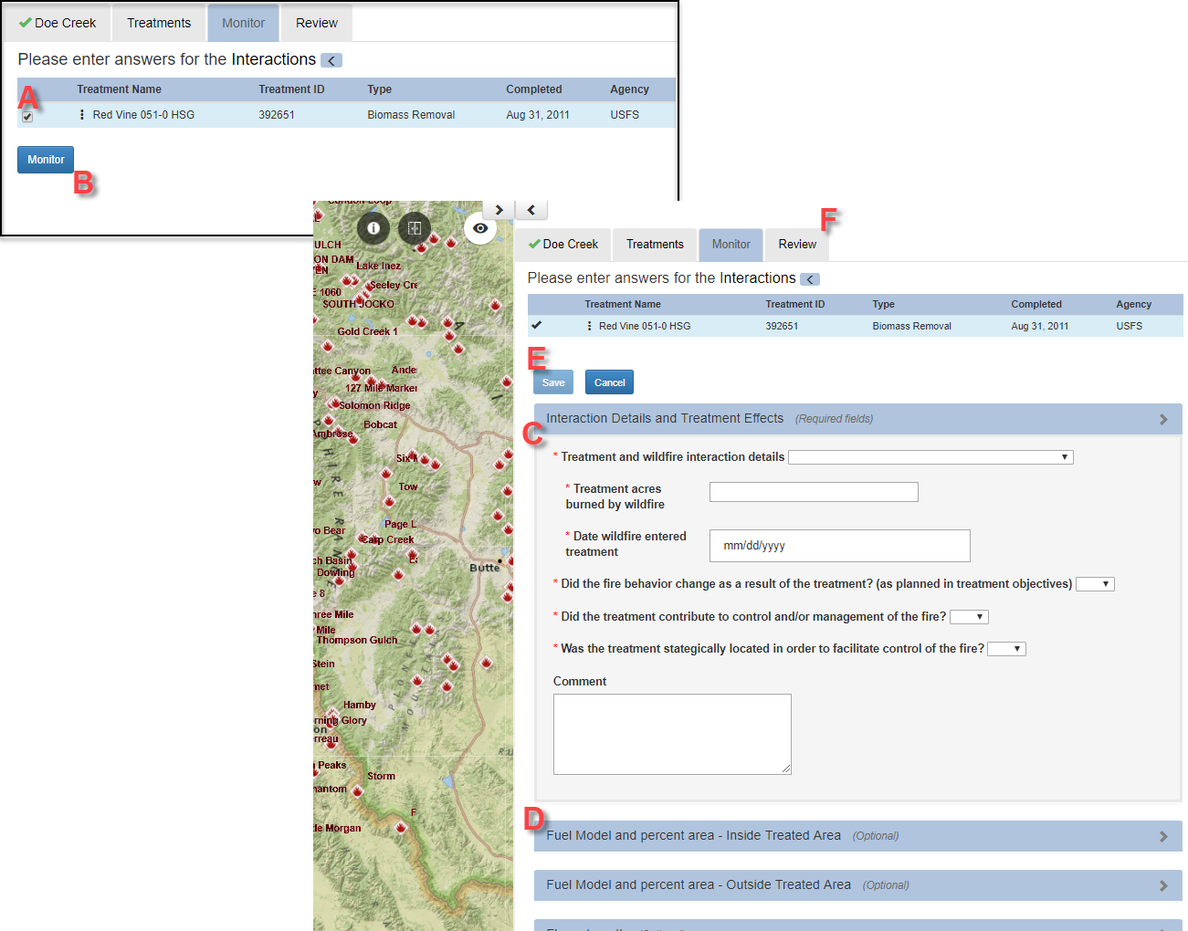
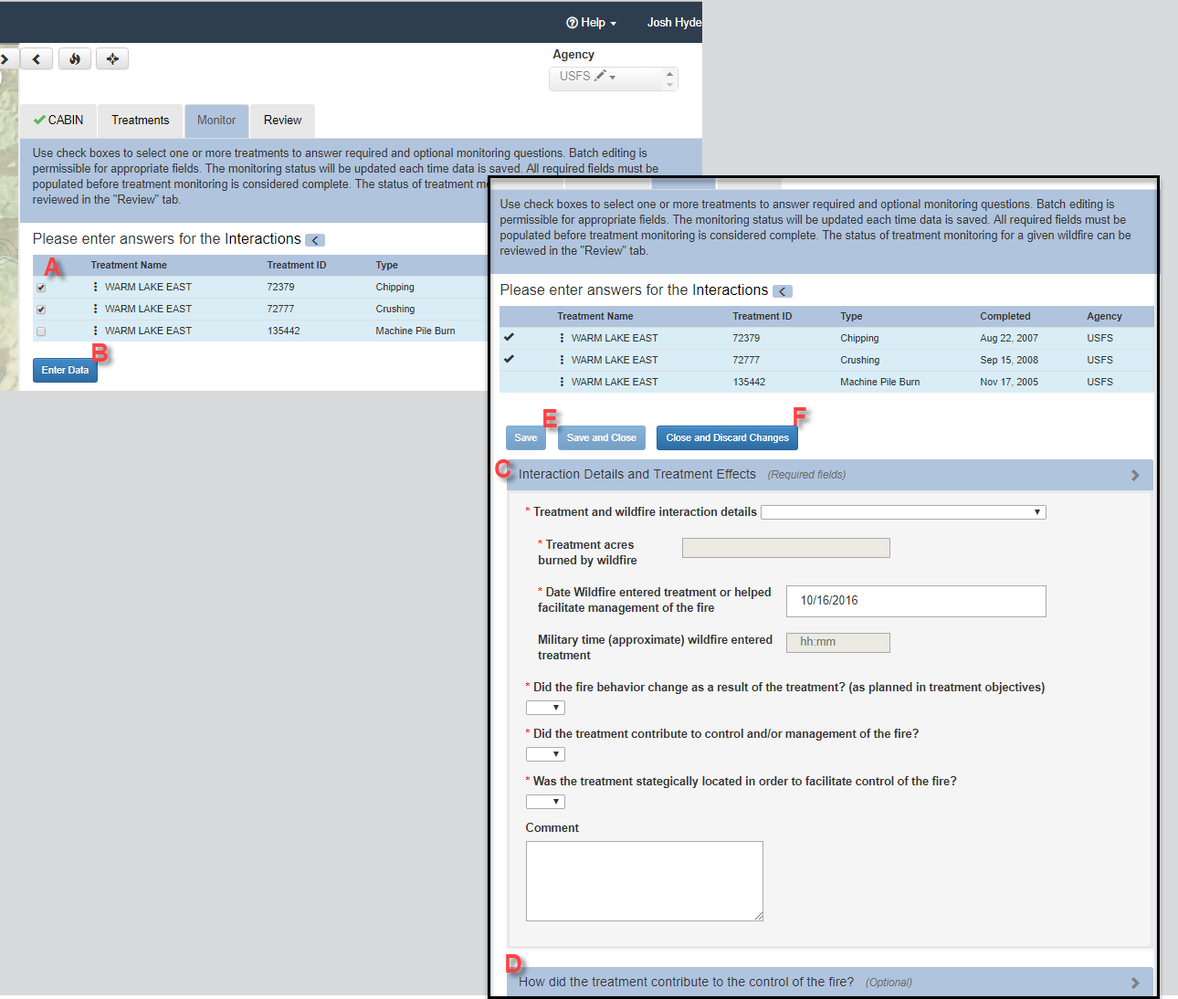
udpate

diff --git a/Content/10-FTEM/UsingFtem.htm b/Content/10-FTEM/UsingFtem.htm
@@ -1,10 +1,10 @@
 <?xml version="1.0" encoding="utf-8"?>
-<html xmlns:MadCap="http://www.madcapsoftware.com/Schemas/MadCap.xsd" MadCap:lastBlockDepth="6" MadCap:lastHeight="3872" MadCap:lastWidth="1177">
+<html xmlns:MadCap="http://www.madcapsoftware.com/Schemas/MadCap.xsd" MadCap:lastBlockDepth="6" MadCap:lastHeight="3330" MadCap:lastWidth="1418">
     <head>
     </head>
     <body>
         <h1>Using FTEM</h1>
-        <p>The FTEM interface is arranged to walk you through the process. Use the tabs to select a wildfire, select your treatment areas, enter monitoring data, and review and submit your data. Below, we walk through each stage of this process. The follow steps assume you have an FTEM account (If not, visit the <a href="http://www.google.com/" target="_blank">FTEM&#160;Setup Topic</a> for instructions). Upon opening FTEM, you will see wildfires with a split view of <MadCap:variable name="General.MapStudio" /> on the left, and a table view on the right.</p>
+        <p>The FTEM interface is arranged to walk you through the process. Use the tabs to select a wildfire, select your treatment areas, enter monitoring data, and review and submit your data. Below, we walk through each stage of this process. The follow steps assume you have an FTEM account (If not, visit the <a href="AccountSetup.htm" target="_blank">FTEM&#160;Setup Topic</a> for instructions). Upon opening FTEM, you will see wildfires with a split view of <MadCap:variable name="General.MapStudio" /> on the left, and a table view on the right.</p>
         <MadCap:dropDown>
             <MadCap:dropDownHead>
                 <MadCap:dropDownHotspot>Wildfire: </MadCap:dropDownHotspot>
@@ -16,11 +16,15 @@
                 </p>
                 <p>Pick a wildfire based on year and wildfire name:</p>
                 <ol style="list-style-type: upper-alpha;">
-                    <li>Enter a Control Year, the year the wildfire was declared under control, or extinguished. </li>
-                    <li>Use the wildfire search field to further constrain your results by entering the fire name.</li>
-                    <li>Click the fire name from the list</li>
-                    <li>Optional:&#160;View the fire on the map, or view past monitoring for that fire</li>
-                    <li>Proceed to the Treatments Tab</li>
+                    <li>Enter a Wildfire Year, the year the wildfire was declared under control, or extinguished.</li>
+                    <li>(Optional) Filter your results by agency.</li>
+                    <li>(Optional) Use the wildfire search field to further constrain your results by entering the fire name.</li>
+                    <li>Select the desired fire name from the list by left clicking.</li>
+                    <div class="notificationTip">
+                        <p>Need to un-select your fire? Hover over the green checkmark next to the fire name in the tabs along the top. When the checkmark turns into a red x, click the x to unselect your fire.</p>
+                    </div>
+                    <li>Optional:&#160;Click the <span class="UIcomponent">Zoom To</span> button to zoom to the fire on the map, or the <span class="UIcomponent">Table Summary</span> button to see a summary of the interactions for that fire.</li>
+                    <li>Proceed to the <span class="UIcomponent">Treatments</span> Tab. You may also proceed to Treatments by clicking the<span class="UIcomponent"> Select Treatments</span> button located to the left of the <span class="UIcomponent">Zoom To</span> button.</li>
                 </ol>
                 <div class="notificationNote">
                     <p>Notice that each wildfire listed is followed by information, left to right, describing the number of acres, control date, jurisdiction unit, and the number of interactions.</p>
@@ -35,13 +39,13 @@
                 <p>If a treatment is within you're agencies jurisdiction you will see an empty check box to the left. </p>
                 <p>Select only the treatments that interacted with the wildfire. </p>
                 <p>
-                    <img src="../Resources/Images/FTEM/treatments.png" alt="use the table to select your treatment" style="width: 681px;height: 569px;" />
+                    <img src="../Resources/Images/FTEM/treatments.png" alt="use the table to select your treatment" style="width: 1037px;height: 414px;" />
                 </p>
                 <ol style="list-style-type: upper-alpha;">
-                    <li>If you know there are treatments that interacted with the wildfire, but do not see them here, click the Add Treatment(s) button to search and select treatments near the fire (This option will allow you to choose a buffer distance to search within)</li>
-                    <li>If there are treatments that should not be on this list, or did not interact with the fire, use the checkbox to select them and click the Remove Treatment(s) button.</li>
-                    <li>Once you have all desired treatments, select them either individually or by using the Select All button</li>
-                    <li>Proceed to Monitor Tab</li>
+                    <li>(Optional)&#160;If you know there are treatments that interacted with the wildfire, but do not see them here, click the <span class="UIcomponent">Add Treatment(s)</span> button to search and select treatments near the fire (This option will allow you to choose a buffer distance to search within).</li>
+                    <li>If there are treatments that should not be on this list, or did not interact with the fire, use the checkbox to select them and click the <span class="UIcomponent">Remove Treatment(s)</span> button.</li>
+                    <li>Once you have all desired treatments, select them either individually by clicking the check box to the left of the treatment name(s), or by using the <span class="UIcomponent">Select All</span> button. <div class="notificationTip">Note the colored icons to the left of the treatment names. In this example the clouds indicate these treatments are polygons, and their red color indicates monitoring/data entry for them has not been started. Learn more about these symbols by visiting the <a href="Symbology.htm" target="_blank">FTEM&#160;Symbology Topic</a>.</div></li>
+                    <li>Proceed to <span class="UIcomponent">Monitor </span>Tab. You may also get to Monitoring by clicking the Monitor Treatment(s) button at the bottom right of the list.</li>
                 </ol>
                 <div class="notificationNote">
                     <p>Notice that each treatment listed is followed by information, left to right, describing the treatment ID, type of treatment, date of completion, and agency. number of acres, control date, jurisdiction unit, and the number of interactions.</p>
@@ -58,11 +62,12 @@
                     </img>
                 </p>
                 <ol style="list-style-type: upper-alpha;">
-                    <li>Select the checkbox next to the treatment.</li>
-                    <li>Scroll down and click the monitor button.</li>
-                    <li>A series of headers will appear below the treatment, each one expands to list out specific questions. The first header, Interaction Details and Treatment Effects, is required. Enter data into each field. We briefly describe guidance for data in each field in the <a href="MonitoringGuidance.htm" target="_blank">FTEM Required Questions Guidance Topic</a>.</li>
+                    <li>Select the treatments to enter data for by clicking the checkbox next each treatment(s).</li>
+                    <li>Click the <span class="UIcomponent">Enter Data</span> button.</li>
+                    <li>A series of questions for the treatment(s) interaction will appear. Notice that each blue heading expands to list of specific questions. The first header, Interaction Details and Treatment Effects, is required. Enter data into each field. We briefly describe guidance for data in each field in the <a href="MonitoringGuidance.htm" target="_blank">FTEM Required Questions Guidance Topic</a>.</li>
                     <li>Proceed to any optional fields and enter data. We briefly describe guidance for data in each field in the <a href="Reporting.htm" target="_blank">FTEM Optional Questions Guidance Topic</a>.</li>
-                    <li>Once your data is entered, click <span class="UIcomponent">Save and Close</span>.</li>
+                    <li>Once your data is entered, click <span class="UIcomponent">Save and Close</span> to proceed. If you want to save your partially completed work and resume the rest of the process later, click <span class="UIcomponent">Save</span>.</li>
+                    <div class="notificationTip">Note that in this example two of three treatments are selected for data entry. You can choose to enter the same data for all your treatments, or like this example, enter data for some treatments, and later enter different data for other treatments. This can be useful if multiple treatments were affected, but burned under different conditions.</div>
                     <li>Proceed to the review tab.</li>
                 </ol>
             </MadCap:dropDownBody>
@@ -75,7 +80,7 @@
                 <p>
                     <img src="../Resources/Images/FTEM/reviewtab.png" alt="the review tab lists all interactions" />
                 </p>
-                <p>In the Review tab, use the <span class="UIcomponent">Table Summary</span> button to generate a list of treatments and data entered.</p>
+                <p>In the Review tab, use the <span class="UIcomponent">Table Summary</span> button to generate a review table of treatments and data entered. At this point, if you are satisfied with your treatment data, you may proceed to step B. However, if you find a data entry that needs editing or additional information, you can use the tabs to navigate back, select treatments, and amend data.</p>
                 <p>Use the <span class="UIcomponent">Complete Wildfire Monitoring</span> button to submit your data to the FTEM System.</p>
                 <p>At the bottom of the tab, the number of completed, in progress, and un-started treatments is displayed.</p>
                 <div class="notificationImportant">

diff --git a/Content/41-References/Resources.htm b/Content/41-References/Resources.htm
@@ -1,20 +1,45 @@
 <?xml version="1.0" encoding="utf-8"?>
-<html xmlns:MadCap="http://www.madcapsoftware.com/Schemas/MadCap.xsd" MadCap:lastBlockDepth="2" MadCap:lastHeight="713" MadCap:lastWidth="1470">
+<html xmlns:MadCap="http://www.madcapsoftware.com/Schemas/MadCap.xsd" MadCap:lastBlockDepth="4" MadCap:lastHeight="712" MadCap:lastWidth="1444">
     <head>
     </head>
     <body>
         <h1>Additional Resources</h1>
         <p>The following resource list does not directly address <MadCap:variable name="General.ProductName" />, but lists out guidebooks and information sources that are helpful in fuel and fire modeling, as well as geospatial help. Whether your new to the field or just looking for a refresher these resources are worth a look:</p>
-        <h2>Geospatial Resources</h2>
-        <p><a href="../Resources/pdfs/Resources/ModifyingLF_DataGuide_V1.pdf" style="font-weight: bold;" target="_blank">Modifying LANDFIRE Geospatial Data for&#160;Local Applications (Version 1)</a>: A 75 page guidebook which covers LANDFIRE background, the framework for data critique and modification, LANDFIRE approaches and considerations for representing disturbance, vegetation, fuels, fire regime and vegetation departure, along with examples.</p>
-        <p><a href="../Resources/pdfs/Resources/RasterPrimer_RDA.pdf" target="_blank" style="font-weight: bold;">Understanding Raster Data</a>: An 8 page primer that defines and explains raster data. </p>
-        <h2>Management Resources</h2>
-        <p><a href="https://www.fs.fed.us/rm/pubs/rmrs_gtr322.pdf" target="_blank" style="font-weight: bold;">A Field Guide for Selecting the Most Appropriate Treatment in Sagebrush and Pinon-Juniper Ecosystems in the Great Basin <i class="fa fa-external-link" aria-hidden="true"></i></a>: A 68 page guide covering key questions, selecting treatment methods and the advantages and disadvantages of those methods, state and transition models, seeding considerations, and selecting treatment areas.</p>
-        <p><a href="https://www.fs.fed.us/rm/pubs/rmrs_gtr338.pdf" target="_blank" style="font-weight: bold;">A Field Guide for Rapid Assessment of Post-Wildfire Recovery Potential in Sagebrush and Pinon Juniper Ecosystems in the Great&#160;Basin <i class="fa fa-external-link" aria-hidden="true"></i></a>: A 70 page guide covering key questions addressing primary components of resilience and resistance, post-wildfire vegetation treatment assessment, and selecting post-burn areas for seeding.</p>
-        <h2>Prescribed Fire Resources</h2>
-        <p><a href="https://www.nwcg.gov/sites/default/files/publications/pms484.pdf" target="_blank" style="font-weight: bold;">Interagency Prescribed Fire&#160;Planning and Implementation Procedures Guide <i class="fa fa-external-link" aria-hidden="true"></i></a>: Establishes national standards for prescribed fire planning and implementation. These standards describe minimum acceptable procedures, provide clear consistent guidance, prioritize firefighter and public safety, and ensure the incorporation of risk management into planning and implementation.</p>
-        <p><a href="https://www.nwcg.gov/sites/default/files/publications/pms424.pdf" target="_blank" style="font-weight: bold;">Prescribed Fire Complexity Rating System Guide <i class="fa fa-external-link" aria-hidden="true"></i></a>: Establishes interagency prescribed fire complexity analysis standards. These standards provide decision support, identify technical difficulty (complexity), provide a complexity rating system, and identify prescribed fire plan elements.</p>
-        <h2>Wildland Fire Basics</h2>
-        <p><a href="https://www.frames.gov/partner-sites/worldofwildlandfire/topic-listing/view-all/" target="_blank"><b>World of Wildland Fires </b><i class="fa fa-external-link" aria-hidden="true" style="font-weight: bold;"></i></a>:&#160;A library of introductory videos explaining topics such as the combustion process, fire behavior, fuel and fuel moistures, and fire ecology.</p>
+        <MadCap:dropDown>
+            <MadCap:dropDownHead>
+                <MadCap:dropDownHotspot>Geospatial Resources</MadCap:dropDownHotspot>
+            </MadCap:dropDownHead>
+            <MadCap:dropDownBody>
+                <p><a href="../Resources/pdfs/Resources/ModifyingLF_DataGuide_V1.pdf" style="font-weight: bold;" target="_blank">Modifying LANDFIRE Geospatial Data for&#160;Local Applications (Version 1)</a>: A 75 page guidebook which covers LANDFIRE background, the framework for data critique and modification, LANDFIRE approaches and considerations for representing disturbance, vegetation, fuels, fire regime and vegetation departure, along with examples.</p>
+                <p><a href="../Resources/pdfs/Resources/RasterPrimer_RDA.pdf" target="_blank" style="font-weight: bold;">Understanding Raster Data</a>: An 8 page primer that defines and explains raster data. </p>
+            </MadCap:dropDownBody>
+        </MadCap:dropDown>
+        <MadCap:dropDown>
+            <MadCap:dropDownHead>
+                <MadCap:dropDownHotspot>Fuels Treatment Selection</MadCap:dropDownHotspot>
+            </MadCap:dropDownHead>
+            <MadCap:dropDownBody>
+                <p><a href="https://www.fs.fed.us/rm/pubs/rmrs_gtr322.pdf" target="_blank" style="font-weight: bold;">A Field Guide for Selecting the Most Appropriate Treatment in Sagebrush and Pinon-Juniper Ecosystems in the Great Basin <i class="fa fa-external-link" aria-hidden="true"></i></a>: A 68 page guide covering key questions, selecting treatment methods and the advantages and disadvantages of those methods, state and transition models, seeding considerations, and selecting treatment areas.</p>
+                <p><a href="https://www.fs.fed.us/rm/pubs/rmrs_gtr338.pdf" target="_blank" style="font-weight: bold;">A Field Guide for Rapid Assessment of Post-Wildfire Recovery Potential in Sagebrush and Pinon Juniper Ecosystems in the Great&#160;Basin <i class="fa fa-external-link" aria-hidden="true"></i></a>: A 70 page guide covering key questions addressing primary components of resilience and resistance, post-wildfire vegetation treatment assessment, and selecting post-burn areas for seeding.</p>
+            </MadCap:dropDownBody>
+        </MadCap:dropDown>
+        <MadCap:dropDown>
+            <MadCap:dropDownHead>
+                <MadCap:dropDownHotspot>Prescribed Fire Planning</MadCap:dropDownHotspot>
+            </MadCap:dropDownHead>
+            <MadCap:dropDownBody>
+                <p><a href="https://www.nwcg.gov/sites/default/files/publications/pms484.pdf" target="_blank" style="font-weight: bold;">Interagency Prescribed Fire&#160;Planning and Implementation Procedures Guide <i class="fa fa-external-link" aria-hidden="true"></i></a>: Establishes national standards for prescribed fire planning and implementation. These standards describe minimum acceptable procedures, provide clear consistent guidance, prioritize firefighter and public safety, and ensure the incorporation of risk management into planning and implementation.</p>
+                <p><a href="https://www.nwcg.gov/sites/default/files/publications/pms424.pdf" target="_blank" style="font-weight: bold;">Prescribed Fire Complexity Rating System Guide <i class="fa fa-external-link" aria-hidden="true"></i></a>: Establishes interagency prescribed fire complexity analysis standards. These standards provide decision support, identify technical difficulty (complexity), provide a complexity rating system, and identify prescribed fire plan elements.</p>
+            </MadCap:dropDownBody>
+        </MadCap:dropDown>
+        <MadCap:dropDown>
+            <MadCap:dropDownHead>
+                <MadCap:dropDownHotspot>Wildland Fire Behavior and Basics</MadCap:dropDownHotspot>
+            </MadCap:dropDownHead>
+            <MadCap:dropDownBody>
+                <p><b><a href="http://www.fbfrg.org/" target="_blank">Fire Behavior Field Reference Guide <i class="fa fa-external-link" aria-hidden="true" style="font-weight: bold;"></i></a></b>:&#160;National Wildfire Coordinating Group's collection of resources to help you address weather, fuels, moisture, mapping, surface and crown fires, fires assessment, and fire danger.</p>
+                <p><a href="https://www.frames.gov/partner-sites/worldofwildlandfire/topic-listing/view-all/" target="_blank"><b>World of Wildland Fires </b><i class="fa fa-external-link" aria-hidden="true" style="font-weight: bold;"></i></a>:&#160;A library of introductory videos explaining topics such as the combustion process, fire behavior, fuel and fuel moistures, and fire ecology.</p>
+            </MadCap:dropDownBody>
+        </MadCap:dropDown>
     </body>
 </html>

diff --git a/Content/10-FTEM/AccountSetup.htm b/Content/10-FTEM/AccountSetup.htm
@@ -1,10 +1,48 @@
 <?xml version="1.0" encoding="utf-8"?>
-<html xmlns:MadCap="http://www.madcapsoftware.com/Schemas/MadCap.xsd" MadCap:lastBlockDepth="2" MadCap:lastHeight="269" MadCap:lastWidth="1257">
+<html xmlns:MadCap="http://www.madcapsoftware.com/Schemas/MadCap.xsd" MadCap:lastBlockDepth="6" MadCap:lastHeight="1651" MadCap:lastWidth="1418">
     <head>
     </head>
     <body>
-        <h1>FTEM Account Setup</h1>
-        <p>FTEM is a separate system from <MadCap:variable name="General.ProductName" />, so you must set up your account and permissions upon your first visit to FTEM. Once this process is complete you will not need to do it again, you may proceed to FTEM&#160;via <MadCap:variable name="General.ProductName" /> seamlessly. </p>
-        <p>[Add information as this part is built]</p>
+        <h1>FTEM Account Setup </h1>
+        <p>FTEM requires some additional user account information, this is because you are accessing and editing data from the FTEM&#160;database.</p>
+        <MadCap:dropDown>
+            <MadCap:dropDownHead>
+                <MadCap:dropDownHotspot>Request FTEM access for the first time</MadCap:dropDownHotspot>
+            </MadCap:dropDownHead>
+            <MadCap:dropDownBody>
+                <p>After selecting FTEM for the first time from the top navigation of <MadCap:variable name="General.ProductName"></MadCap:variable>, or from the planning cycle you will be taken to the Request Access page.</p>
+                <p>
+                    <img src="../Resources/Images/FTEM/Request_account_1st_time.png" alt="request account access from the ftem 'request access' screen" style="width: 640px;height: 286px;" />
+                </p>
+                <ol style="list-style-type: upper-alpha;">
+                    <li>Select the agency your work for from the dropdown menu.</li>
+                    <li>Select your geographic area of interest from the dropdown menu.</li>
+                    <li>Provide a brief justification to help administrators approve your account.</li>
+                    <li>When finished, click the <span class="UIcomponent">Request FTEM&#160;Access</span> button.</li>
+                </ol>
+                <p>You will receive a notice confirming your access request has been received. Once it has been approved, you will be notified via email and may then access the FTEM portion of <MadCap:variable name="General.ProductName" />.</p>
+                <p>
+                    <img src="../Resources/Images/FTEM/1st_request_confirmation.png" alt="when your request has been submitted a text box will appear to confirm this" style="width: 735px;height: 117px;" />
+                </p>
+            </MadCap:dropDownBody>
+        </MadCap:dropDown>
+        <MadCap:dropDown>
+            <MadCap:dropDownHead>
+                <MadCap:dropDownHotspot>Get your user role approved to start using FTEM</MadCap:dropDownHotspot>
+            </MadCap:dropDownHead>
+            <MadCap:dropDownBody>
+                <p>To establish or change your user role in FTEM, follow the steps below. You will need to do this to ensure you have editing permissions in FTEM.</p>
+                <ol style="list-style-type: upper-alpha;">
+                    <li>From the FTEM page, click your username in the top right of the screen and select <span class="UIcomponent">Request Roles</span>.
+                            <div><img src="../Resources/Images/FTEM/user_role_selection1.png" alt="select your username from within FTEM to request a role" style="width: 869px;height: 243px;"></img></div></li>
+                    <li>Request Roles will take you to the FTEM&#160;User Roles page. From here, find the role you need from the top column, and check the box next to your agency. In this example we have request the role of USFS Editor.
+            
+                <div><img src="../Resources/Images/FTEM/user_role_selection2.png" alt="check the desired user role, provide justification, and submit" style="width: 967px;height: 327px;"></img></div></li>
+                    <li>Provide a brief justification to help administrators approve your account.</li>
+                    <li>Click the Request FTEM&#160;Roles button when finished</li>
+                </ol>
+                <p>You will receive a notice confirming your User Role request has been received. Once it has been approved, you will be notified via email.</p>
+            </MadCap:dropDownBody>
+        </MadCap:dropDown>
     </body>
 </html>

diff --git a/Content/10-FTEM/FTEMAbout.htm b/Content/10-FTEM/FTEMAbout.htm
@@ -1,5 +1,5 @@
 <?xml version="1.0" encoding="utf-8"?>
-<html xmlns:MadCap="http://www.madcapsoftware.com/Schemas/MadCap.xsd" MadCap:lastBlockDepth="4" MadCap:lastHeight="1184" MadCap:lastWidth="2177">
+<html xmlns:MadCap="http://www.madcapsoftware.com/Schemas/MadCap.xsd" MadCap:lastBlockDepth="5" MadCap:lastHeight="960" MadCap:lastWidth="1431">
     <head>
     </head>
     <body>
@@ -10,7 +10,8 @@
                 <MadCap:dropDownHotspot>More about FTEM</MadCap:dropDownHotspot>
             </MadCap:dropDownHead>
             <MadCap:dropDownBody>
-                <p>FTEM is integrated into the Interagency Fuel Treatment Decision Support System (IFTDSS) application through a single sign on so fuels planners can model landscape fire behavior and record results to FTEM for further analysis and reporting. In addition, the IFTDSS/FTEM connection presents data in a tabular format combined with geospatial mapping capabilities for a broader understanding of the fuels landscape. Fuels planners can develop future and modify existing hazardous fuel treatment prescriptions in order to reduce the fire size, cost, smoke management, and ultimately allow the burned environment to more quickly return to a functioning ecosystem. This integration automates the wildland fire and fuels data feed into one authoritative data source to help ensure data accuracy when reporting to the interagency wildland fire community, the Office of Management &amp; Budget (OMB), the General Accounting Office (GAO), and other federal and public stakeholders.</p>
+                <p>
+                    <img src="../Resources/Images/FTEM/2017-09-12_17-12-57 copy.png" style="width: 366px;height: 302px;float: right;padding-left: 7px;" />FTEM is integrated into the Interagency Fuel Treatment Decision Support System (IFTDSS) application through a single sign on so fuels planners can model landscape fire behavior and record results to FTEM for further analysis and reporting. In addition, the IFTDSS/FTEM connection presents data in a tabular format combined with geospatial mapping capabilities for a broader understanding of the fuels landscape. Fuels planners can develop future and modify existing hazardous fuel treatment prescriptions in order to reduce the fire size, cost, smoke management, and ultimately allow the burned environment to more quickly return to a functioning ecosystem. This integration automates the wildland fire and fuels data feed into one authoritative data source to help ensure data accuracy when reporting to the interagency wildland fire community, the Office of Management &amp; Budget (OMB), the General Accounting Office (GAO), and other federal and public stakeholders.</p>
                 <p>If you are a USDA Forest Service employee or contractor, follow these guidelines for submitting FTEM information per Interim Directive 5140-2012-1:</p>
                 <p>•	Complete a fuel treatment effectiveness assessment on all wildfires which start in or burn into a fuel treatment area that has been completed within the last 10 years (within last 3 years in the Southern Region and other areas designated by regional foresters.)</p>
                 <p>•	Submit all fuel treatment effectiveness assessment reports within 90 days of control of the fire.</p>

diff --git a/Content/10-FTEM/FTEMFaq.htm b/Content/10-FTEM/FTEMFaq.htm
@@ -1,31 +1,39 @@
 <?xml version="1.0" encoding="utf-8"?>
-<html xmlns:MadCap="http://www.madcapsoftware.com/Schemas/MadCap.xsd" MadCap:lastBlockDepth="4" MadCap:lastHeight="387" MadCap:lastWidth="1217">
+<html xmlns:MadCap="http://www.madcapsoftware.com/Schemas/MadCap.xsd" MadCap:lastBlockDepth="4" MadCap:lastHeight="373" MadCap:lastWidth="1444">
     <head>
     </head>
     <body>
         <h1>FTEM Frequently Asked Questions</h1>
         <MadCap:dropDown>
             <MadCap:dropDownHead>
-                <MadCap:dropDownHotspot>Why do I have to use FTEM?</MadCap:dropDownHotspot>
+                <MadCap:dropDownHotspot>Where does FTEM pull data from?</MadCap:dropDownHotspot>
             </MadCap:dropDownHead>
             <MadCap:dropDownBody>
-                <p>Because.</p>
+                <p>[Information to be filled in when available]</p>
             </MadCap:dropDownBody>
         </MadCap:dropDown>
         <MadCap:dropDown>
             <MadCap:dropDownHead>
-                <MadCap:dropDownHotspot>Do I<span class="Emphasis">&#160;really </span>have to use FTEM?</MadCap:dropDownHotspot>
+                <MadCap:dropDownHotspot>Where does the data I&#160;enter go, how does it get used?</MadCap:dropDownHotspot>
             </MadCap:dropDownHead>
             <MadCap:dropDownBody>
-                <p>Yes. Really.</p>
+                <p>[Information to be filled in when available]</p>
             </MadCap:dropDownBody>
         </MadCap:dropDown>
         <MadCap:dropDown>
             <MadCap:dropDownHead>
-                <MadCap:dropDownHotspot>Will <MadCap:variable name="General.ProductName" /> make FTEM easier?</MadCap:dropDownHotspot>
+                <MadCap:dropDownHotspot>Why must we use FTEM</MadCap:dropDownHotspot>
             </MadCap:dropDownHead>
             <MadCap:dropDownBody>
-                <p>Of course!</p>
+                <p>[Information to be filled in when available]</p>
+            </MadCap:dropDownBody>
+        </MadCap:dropDown>
+        <MadCap:dropDown>
+            <MadCap:dropDownHead>
+                <MadCap:dropDownHotspot>I&#160;need to change information I&#160;entered, how can I&#160;do that?</MadCap:dropDownHotspot>
+            </MadCap:dropDownHead>
+            <MadCap:dropDownBody>
+                <p>[Information to be filled in when available]</p>
             </MadCap:dropDownBody>
         </MadCap:dropDown>
     </body>

diff --git a/Content/00-Concepts/Estimating Fuel Moistures.htm b/Content/00-Concepts/Estimating Fuel Moistures.htm
@@ -1,0 +1,13 @@
+<?xml version="1.0" encoding="utf-8"?>
+<html xmlns:MadCap="http://www.madcapsoftware.com/Schemas/MadCap.xsd" MadCap:conditions="General.Exclude" MadCap:lastBlockDepth="2" MadCap:lastHeight="278" MadCap:lastWidth="1470">
+    <head>
+    </head>
+    <body>
+        <h1>Estimating Fuel Moistures</h1>
+        <p>Merge this with the topic under it and include:</p>
+        <p>&#160;</p>
+        <p>97th percentile moistures from <MadCap:variable name="General.ProductName" /> and Remove Automated Weather Stations</p>
+        <p>Fuel Moisture in the field: http://www.fbfrg.org/</p>
+        <p>Historic Fuel&#160;Moistures from http://www.wfas.net/index.php/national-fuel-moisture-database-moisture-drought-103</p>
+    </body>
+</html>

diff --git a/Content/10-FTEM/Reporting.htm b/Content/10-FTEM/Reporting.htm
@@ -1,8 +1,11 @@
 <?xml version="1.0" encoding="utf-8"?>
-<html xmlns:MadCap="http://www.madcapsoftware.com/Schemas/MadCap.xsd" MadCap:lastBlockDepth="6" MadCap:lastHeight="107" MadCap:lastWidth="2137">
+<html xmlns:MadCap="http://www.madcapsoftware.com/Schemas/MadCap.xsd" MadCap:lastBlockDepth="6" MadCap:lastHeight="445" MadCap:lastWidth="1418">
     <head>
     </head>
     <body>
         <h1>FTEM Reporting</h1>
+        <p>
+            <img src="../Resources/Images/FTEM/WIP.png" />
+        </p>
     </body>
 </html>

diff --git a/Content/10-FTEM/TechDoc.htm b/Content/10-FTEM/TechDoc.htm
@@ -1,8 +1,9 @@
 <?xml version="1.0" encoding="utf-8"?>
-<html xmlns:MadCap="http://www.madcapsoftware.com/Schemas/MadCap.xsd" MadCap:lastBlockDepth="2" MadCap:lastHeight="107" MadCap:lastWidth="1836">
+<html xmlns:MadCap="http://www.madcapsoftware.com/Schemas/MadCap.xsd" MadCap:lastBlockDepth="2" MadCap:lastHeight="130" MadCap:lastWidth="1470">
     <head>
     </head>
     <body>
         <h1>FTEM&#160;Technical Documentation</h1>
+        <p>[Information needed]</p>
     </body>
 </html>
